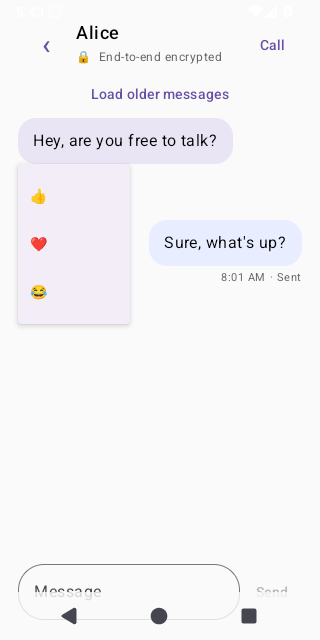
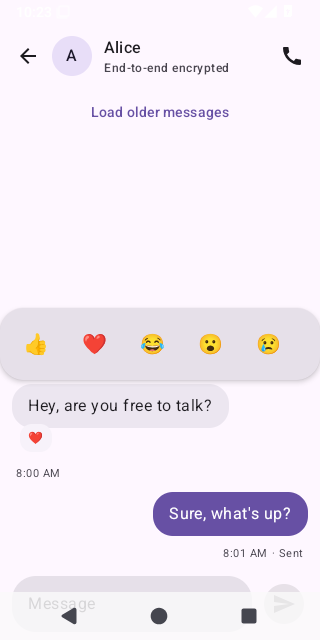
Fresh emulator screenshots and redesigned README

diff --git a/docs/SCREENSHOT_WALKTHROUGH.md b/docs/SCREENSHOT_WALKTHROUGH.md
@@ -1,44 +1,43 @@
 # Automated feature walkthrough
 
 GitHub Actions provisions a fresh Synapse server, creates demo users, and runs
-Send in an Android emulator. Instrumentation signs into `@alice:send.test`,
-creates an encrypted direct conversation with `@bob:send.test`, sends a sample
-message through the Matrix Rust SDK, and verifies it appears in the local
-timeline. Screenshots are captured at native emulator resolution. Sign-in is a
-static Compose fixture; the new-chat dialog, conversation list, and message
-send captures are from the live app connected to Synapse.
+Send in an Android emulator. Instrumentation taps through the Pixel onboarding
+hero, signs into `@alice:send.test` with a bare `http://10.0.2.2:8008` test
+address, creates an encrypted direct conversation with `@bob:send.test`, sends
+a sample message through the Matrix Rust SDK, and verifies it appears in the
+local timeline. Screenshots are captured at native emulator resolution.
 
 ## Screenshots
 
-### Sign-in
+### Onboarding hero
 
-![Sign-in screen](screenshots/sign-in.png)
+![Pixel onboarding hero](screenshots/onboarding-hero.png)
 
-### New encrypted conversation
+### Homeserver setup
 
-![Create encrypted conversation](screenshots/demo-create-chat.png)
+![Homeserver setup](screenshots/sign-in.png)
+
+Bare server names, full Matrix IDs, and full URLs are all accepted; connection
+details resolve via `.well-known/matrix/client`.
 
 ### Conversation list
 
-![Live encrypted conversation list](screenshots/demo-conversations.png)
+![Conversation list](screenshots/conversations.png)
 
-### Encrypted message send
+### New encrypted conversation
 
-![Live encrypted conversation](screenshots/demo-conversation.png)
-
-### Conversation-list UI fixture
-
-![Conversation-list fixture](screenshots/home-ui-fixture.png)
-
-This static Compose fixture exercises the empty/data list presentation. Live
-Synapse room creation and list appearance are shown separately above.
-
-### New-chat dialog and recipient validation
-
-![New-chat dialog](screenshots/new-chat-dialog.png)
+![Create encrypted conversation](screenshots/new-chat.png)
 
 The UI test checks that Create remains disabled without a Matrix user ID and
 becomes enabled after a valid ID is entered.
+
+### Encrypted message send
+
+![Encrypted conversation](screenshots/conversation.png)
+
+Grouped bubbles (primary for sent, `surfaceContainerHigh` for received),
+overlapping reaction pills, timestamps per cluster, and the filled pill
+composer with its circular send button.
 
 ### Reaction picker
 
@@ -47,22 +46,24 @@ becomes enabled after a valid ID is entered.
 The UI test long-presses a message, selects 😂, and verifies the event ID and
 reaction passed to the handler.
 
-### Conversation UI fixture
+### Live Synapse walkthrough
 
-![Conversation screen fixture](screenshots/conversation-ui-fixture.png)
+![Create encrypted conversation with Bob](screenshots/demo-create-chat.png)
 
-This uses sample content to verify message styling and sent state. It is a UI
-fixture, not a live Matrix conversation.
+![Live demo conversation list](screenshots/demo-conversations.png)
+
+![Live encrypted message](screenshots/demo-conversation.png)
 
 ## Automation coverage and limits
 
-The UI suite verifies homeserver URL validation, new-chat recipient validation,
-long-press reaction selection, legal notices, and sign-in/home/conversation
-fixtures. The live Synapse walkthrough proves password authentication, encrypted
-room creation, navigation, and encrypted message send/render in the local
-timeline, plus delivery/decryption of that message and a 👍 reaction on Bob's
-independent SDK client after Bob joins the room. It does not verify reliable
-background room-list synchronization.
+The UI suite verifies homeserver validation (including bare server names and
+Matrix-ID-derived servers), new-chat recipient validation, long-press reaction
+selection, legal notices, and the sign-in/home/conversation screens. The live
+Synapse walkthrough proves password authentication, encrypted room creation,
+navigation, and encrypted message send/render in the local timeline, plus
+delivery/decryption of that message and a 👍 reaction on Bob's independent SDK
+client after Bob joins the room. It does not verify reliable background
+room-list synchronization.
 
 Synapse is not configured with MatrixRTC/LiveKit; this does not verify calls.
 Push notifications, Android Auto, widgets, dictation, and AI are roadmap items,
